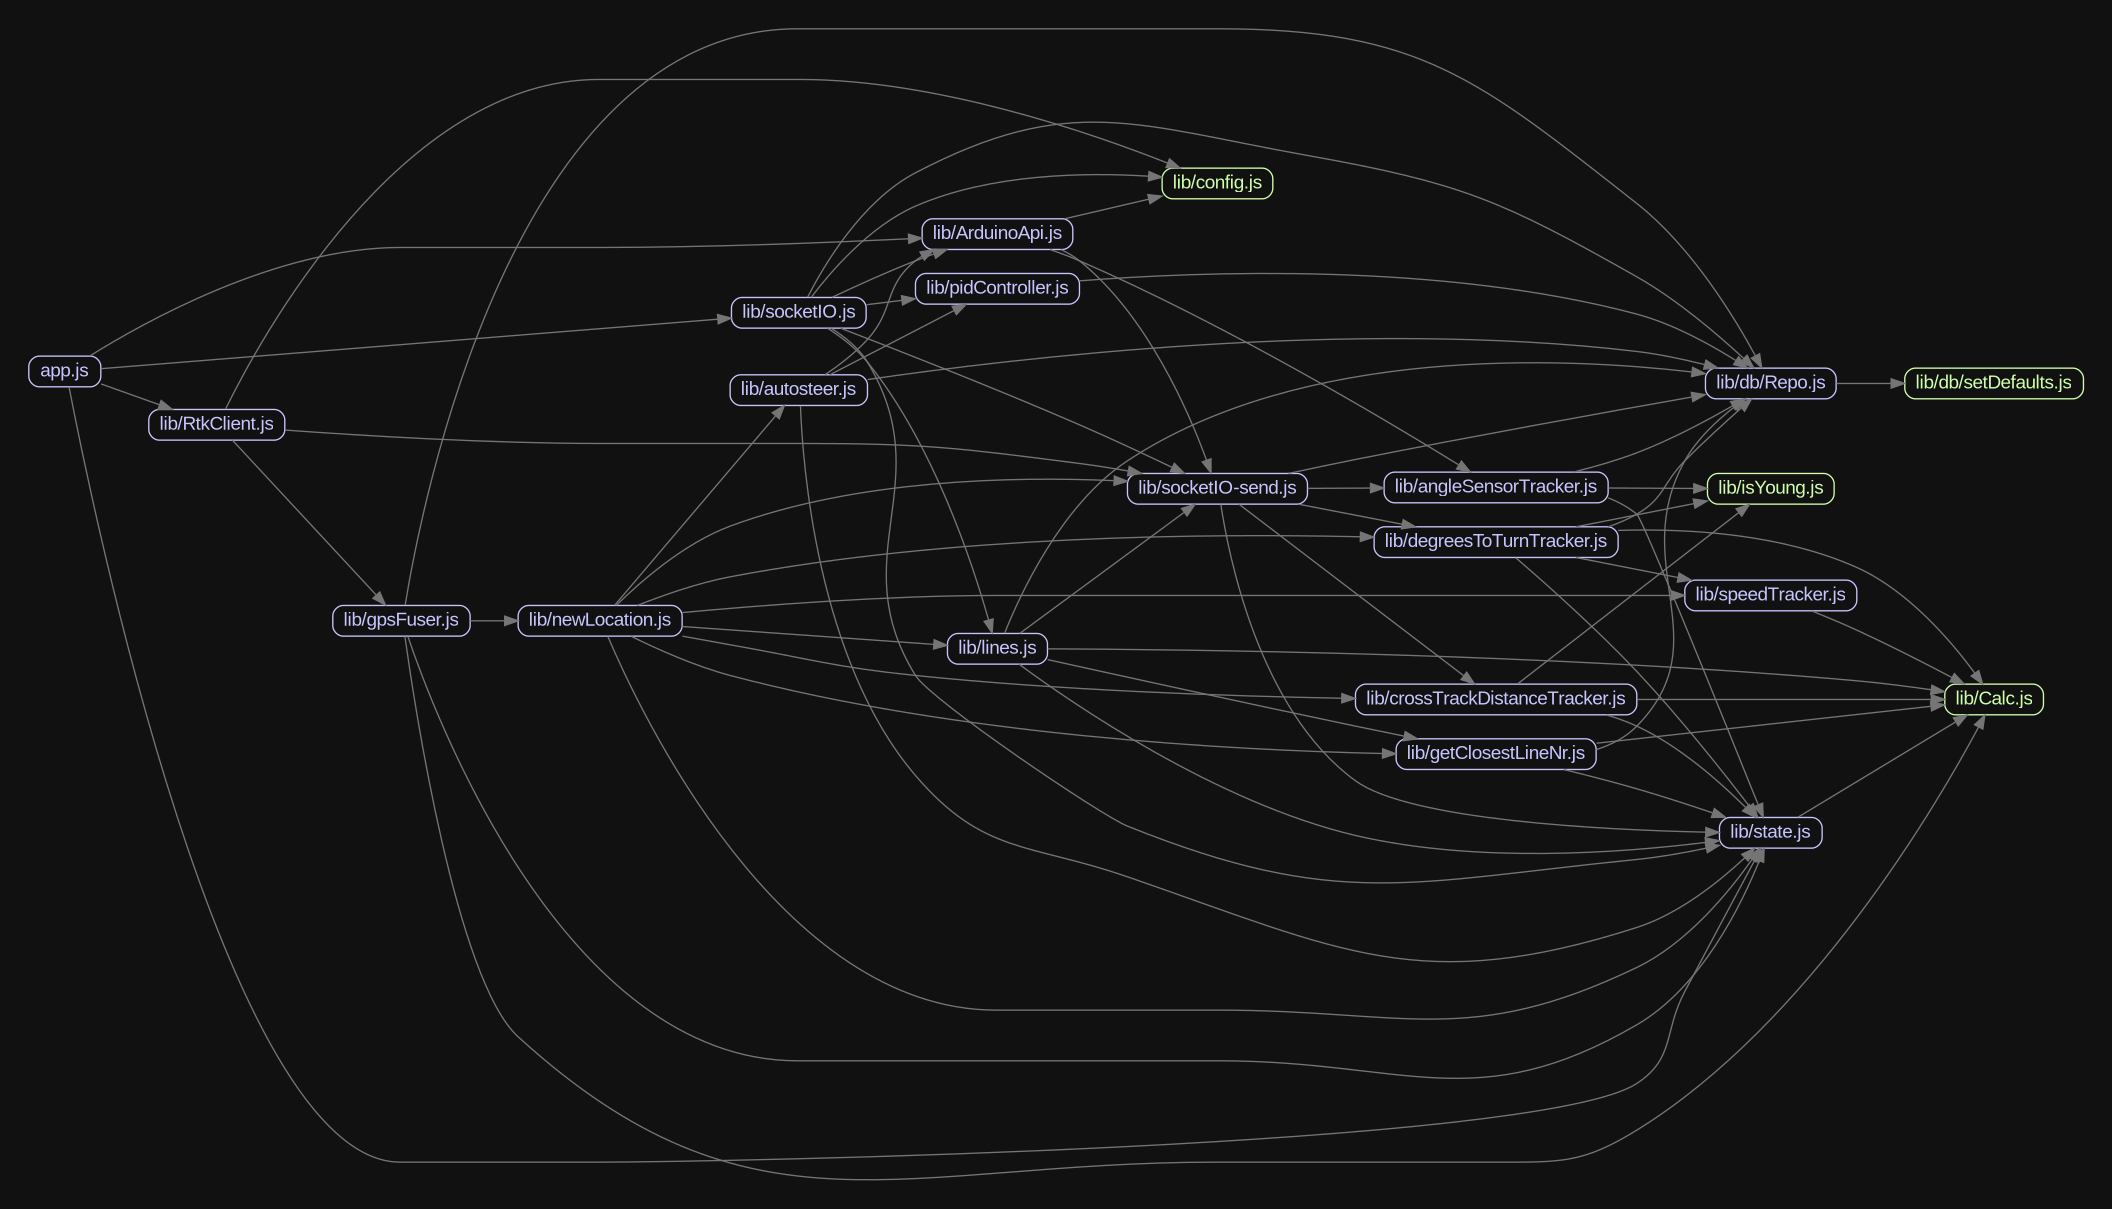
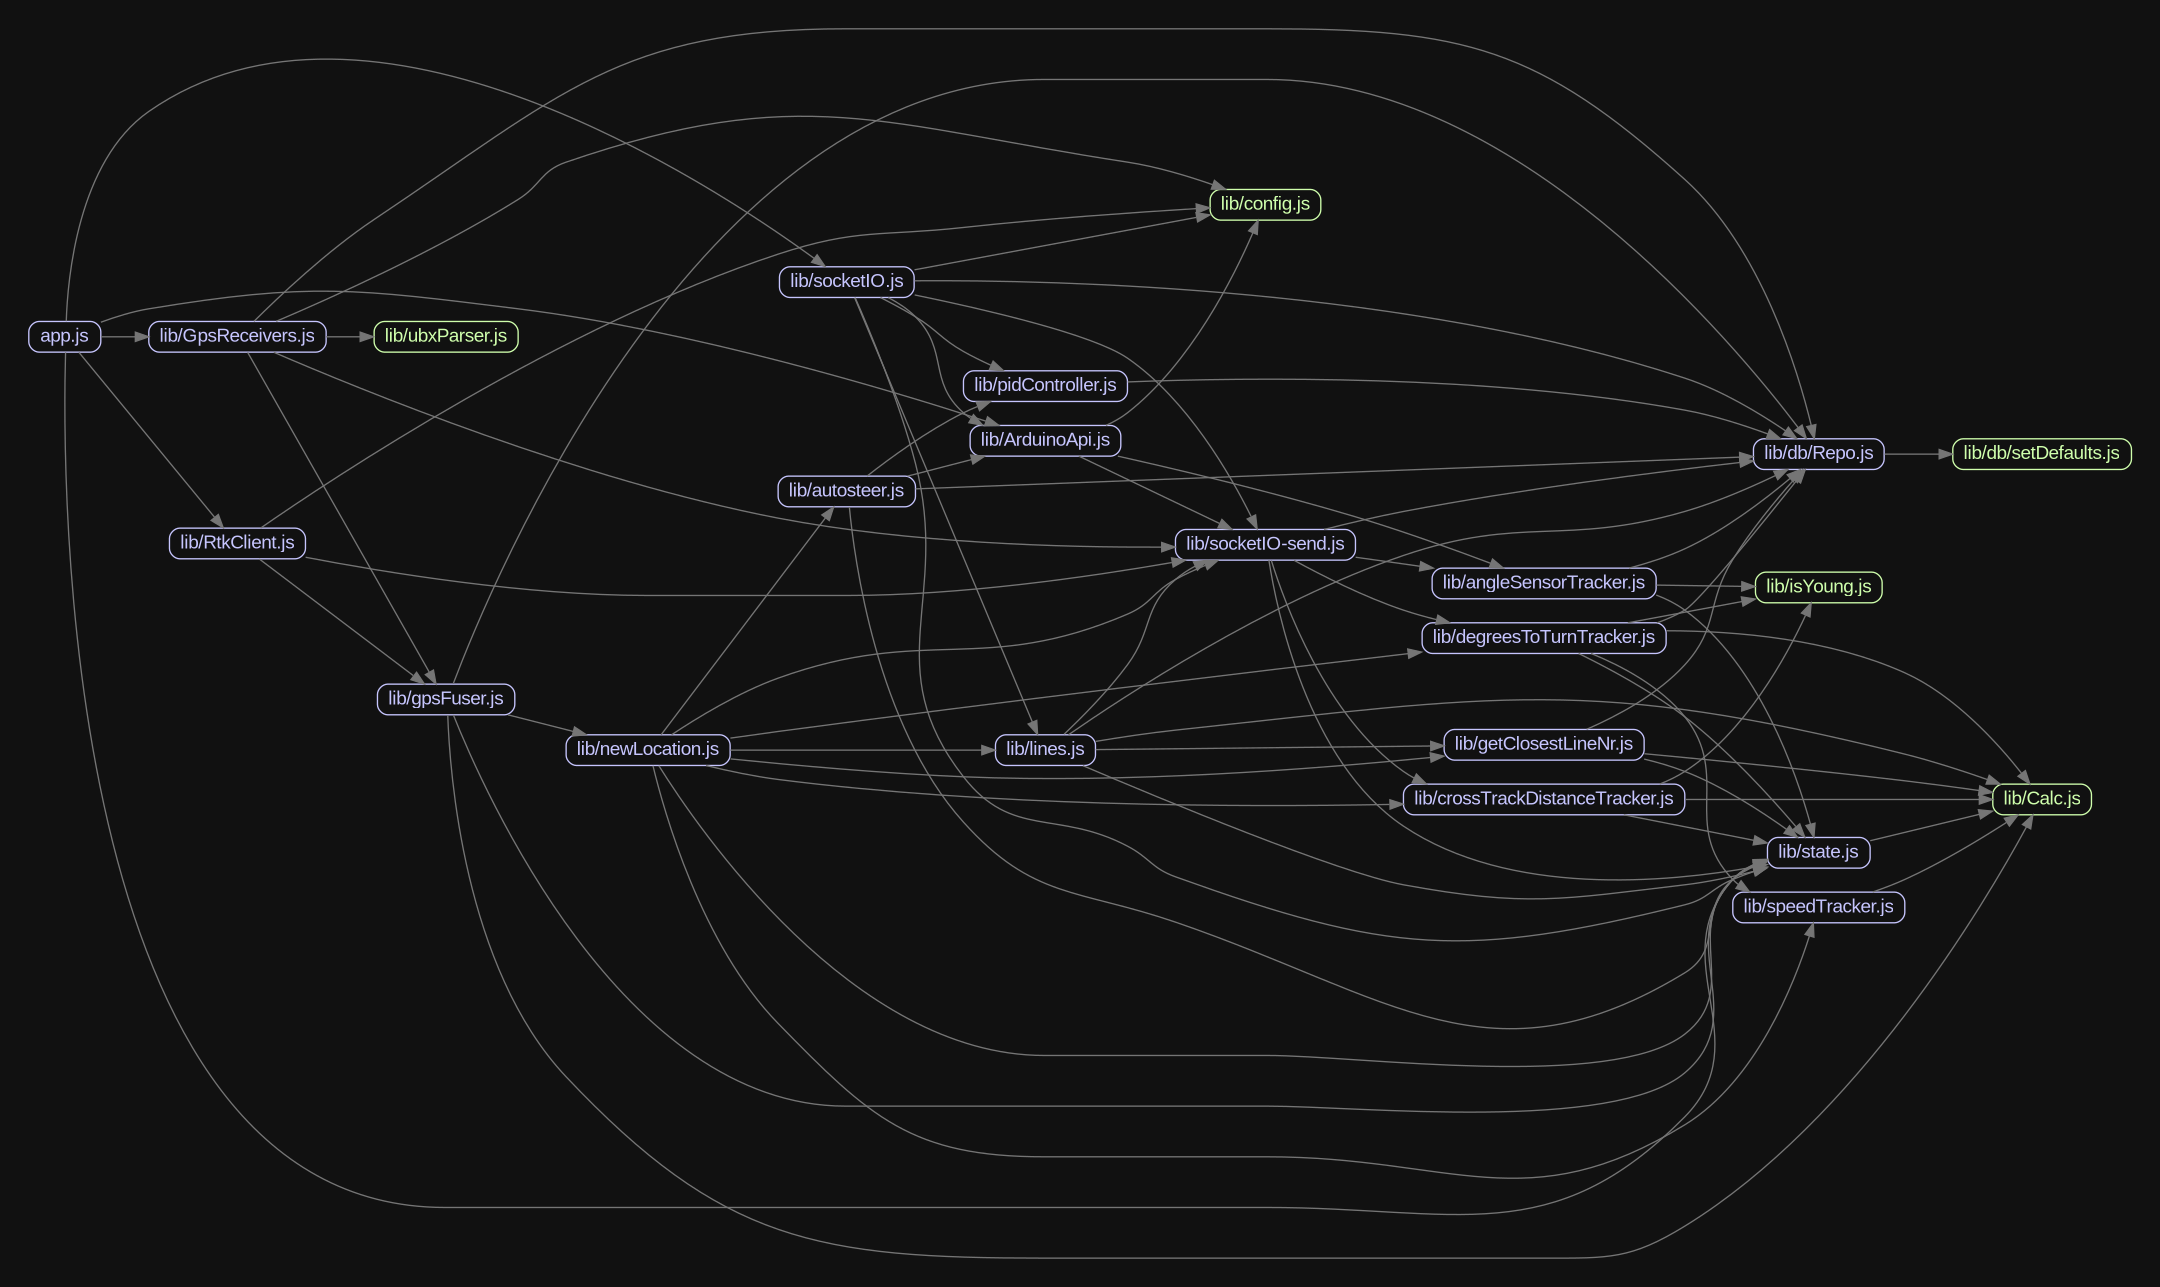
added ntrip and right gps

diff --git a/lib/GpsReceivers.js b/lib/GpsReceivers.js
@@ -11,12 +11,14 @@ const { NtripClient } = require('ntrip-client');
 const portGpsLeft = new SerialPort(Config.gpsLeft.path, { baudRate: 115200, autoOpen: false });
 const portGpsRight = new SerialPort(Config.gpsRight.path, { baudRate: 115200, autoOpen: false });
 const axios = require('axios');
+const DB = require('./db/Repo');
 
 assistNow();
 function assistNow() {
   axios.get('http://online-live1.services.u-blox.com/GetOnlineData.ashx?token=_REPLACE-WITH-UBLOX-ASSISTNOW-TOKEN_;gnss=gps,glo,gal;datatype=eph,alm', { responseType: 'arraybuffer' })
     .then(response => {
       portGpsLeft.write(response.data);
+      portGpsRight.write(response.data);
     }).catch(error => {
       console.error(error);
     });
@@ -49,11 +51,11 @@ function ntrip1() {
 
 function ntrip2() {
   const options = {
-    host: 'flepos.vlaanderen.be',
-    port: 2101,
-    mountpoint: 'FLEPOSVRS32GREC',
-    username: '_HIDDEN-NTRIP-CREDENTIALS_',
-    password: '_HIDDEN-NTRIP-CREDENTIALS_',
+    host: DB.getSettings().ntrip.host,
+    port: DB.getSettings().ntrip.port,
+    mountpoint: DB.getSettings().ntrip.mountpoint,
+    username: DB.getSettings().ntrip.username,
+    password: DB.getSettings().ntrip.password,
     xyz: ecef(50.9517, 2.6466),
     // the interval of send nmea, unit is millisecond
     interval: 2000,
@@ -62,6 +64,7 @@ function ntrip2() {
   const client = new NtripClient(options);
   client.on('data', (data) => {
     portGpsLeft.write(data);
+    portGpsRight.write(data);
   });
   client.on('close', () => {
     console.log('client close');
@@ -81,7 +84,7 @@ const GpsReceivers = (() => {
     if (!line.toString().startsWith('$GN')) {
       let responses = ubxParser.parse(line);
       responses.forEach(response => {
-        console.log(response)
+        //console.log("LEFT: ", response);
         GpsFuser.fuseReceiver(0, response);
         sendInfo(0, {
           time: response.iTow,
@@ -90,19 +93,31 @@ const GpsReceivers = (() => {
         })
       });
     } else {
-      console.log('NMEA: ' + line.toString());
+      console.log('NMEA0: ' + line.toString());
+    }
+  });
+
+  portGpsRight.on('data', (line) => {
+    if (!line.toString().startsWith('$GN')) {
+      let responses = ubxParser.parse(line);
+      responses.forEach(response => {
+        //console.log("RIGHT: ", response);
+        GpsFuser.fuseReceiver(1, response);
+        sendInfo(1, {
+          time: response.iTow,
+          satCount: response.numSV,
+          quality: response.flags.carrSoln
+        })
+      });
+    } else {
+      console.log('NMEA1: ' + line.toString());
     }
   });
 
   function setup() {
     console.log("WRITINGGG");
-    portGpsLeft.write('B562068A09000001000005005210000160', 'hex'); //valset disable CFG-UART1
-    portGpsLeft.write('B562068A09000001000005005310000263', 'hex'); //valset disable CFG-UART2
-    portGpsLeft.write('B56206080600C80001000000DD68', 'hex'); //rate 5hz
-    disableNMEA2(portGpsLeft);
-    //  portGpsLeft.write('B562060108000114000000010000253A', 'hex'); //NAV-HPPOSLLH
-    portGpsLeft.write('B562068A09000001000009009120015552', 'hex'); //valset enable CFG-UBX_NAV_PVT_USB
-    portGpsLeft.write('B562068A0900000100000400922001513c', 'hex'); //valset enable CFG-INFMSG-UBX_USB
+    setupReceiver(portGpsLeft);
+    setupReceiver(portGpsRight);
   }
 
   return {
@@ -111,12 +126,21 @@ const GpsReceivers = (() => {
 })();
 
 
-function disableNMEA2(port) {
+function setupReceiver(port) {
+  portGpsLeft.write('B562068A09000001000005005210000160', 'hex'); //valset disable CFG-UART1
+  portGpsLeft.write('B562068A09000001000005005310000263', 'hex'); //valset disable CFG-UART2
+  portGpsLeft.write('B56206080600C80001000000DD68', 'hex'); //rate 5hz
+
[1 lines of base64/hex data omitted]
   port.write('B562068A090000010000AE00912000F98A', 'hex'); //CFG-MSGOUT disable RMC
+
+  //  portGpsLeft.write('B562060108000114000000010000253A', 'hex'); //NAV-HPPOSLLH
+  portGpsLeft.write('B562068A09000001000009009120015552', 'hex'); //valset enable CFG-UBX_NAV_PVT_USB
+  portGpsLeft.write('B562068A0900000100000400922001513c', 'hex'); //valset enable CFG-INFMSG-UBX_USB
 }
 
 portGpsLeft.open();
+portGpsRight.open();
 
 process.on('SIGINT', function () {
   console.log('stop!!!')

diff --git a/lib/socketIO-send.js b/lib/socketIO-send.js
@@ -186,6 +186,14 @@ function sendSteeringSettings(socket){
   let {method,  mode, pid, toleranceDegrees, minimumMotorPwm} = DB.getSteeringSettings();
   socket.emit('steeringSettings', {method, mode, pid, toleranceDegrees, minimumMotorPwm})
 }
+function sendNtripSettings(socket){
+  if (!socket) {
+    socket = io;
+  }
+
+  let {host, username, password, mountpoint, port} = DB.getSettings().ntrip;
+  socket.emit('ntripSettings', {host, username, password, mountpoint, port});
+}
 
 module.exports = {
   init,
@@ -209,5 +217,6 @@ module.exports = {
   sendCurrentWheelAngle,
   sendDegreesToTurn,
   sendSteeringSettings,
-  sendSaveSettingsSuccess
+  sendSaveSettingsSuccess,
+  sendNtripSettings
 };

diff --git a/lib/socketIO.js b/lib/socketIO.js
@@ -114,6 +114,13 @@ io.on('connection', (socket) => {
   socket.on('getSteeringSettings', () => {
     IoSend.sendSteeringSettings(socket);
   });
+  socket.on('saveNtripSettings', ({host, username, password, mountpoint, port}) => {    
+    DB.setNtripSettings(host, username, password, mountpoint, port);
+    IoSend.sendSaveSettingsSuccess(socket);
+  });
+  socket.on('getNtripSettings', () => {
+    IoSend.sendNtripSettings(socket);
+  });  
 });
 
 io.listen(Config.socketIoPort);

diff --git a/lib/db/Repo.js b/lib/db/Repo.js
@@ -26,6 +26,9 @@ class Repo {
   static setLineOffset(lineOffset){
     db.set('settings.lineOffset', lineOffset).write();
   }
+  static setNtripSettings(host, username, password, mountpoint, port){
+    db.set('settings.ntrip', {host, username, password, mountpoint, port}).write();
+  }
   static getSteeringSettings() {
     return db.get('settings.steering').value();
   }

diff --git a/lib/config.js b/lib/config.js
@@ -19,7 +19,7 @@ module.exports = {
     path: '/dev/ttyACM0'
   },
   gpsRight: {
-    path: '/dev/GPSRight'
+    path: '/dev/ttyACM1'
   },
   debug: true,
 }
